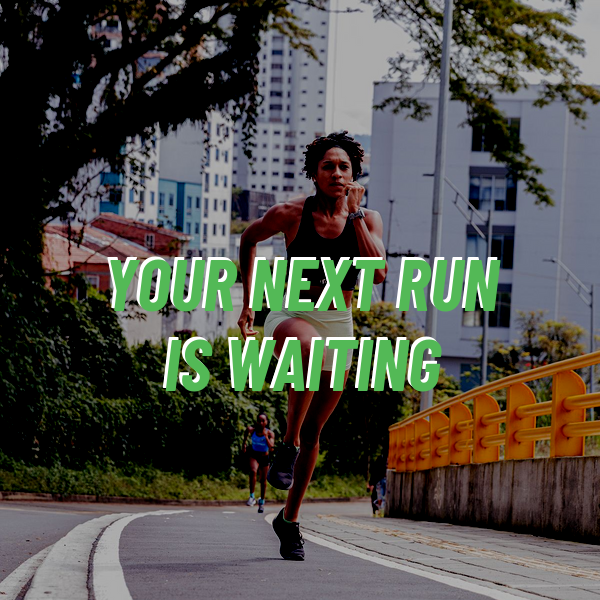
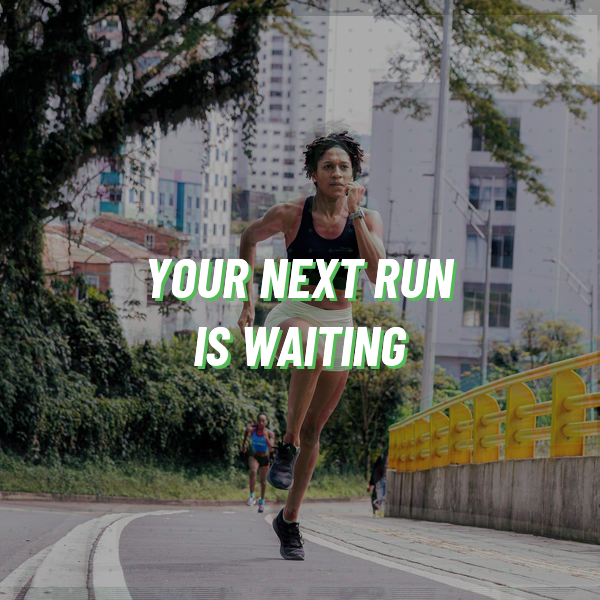
Email: lighter hero + PLAN/TRACK/RUN product sections

diff --git a/rundot/emails/reactivation.html b/rundot/emails/reactivation.html
@@ -67,7 +67,7 @@
         <table role="presentation" width="600" cellpadding="0" cellspacing="0" border="0" class="email-container" style="width:600px; max-width:600px;">
           <tr>
             <td style="padding:0;">
-              <img src="https://bradleyparnell.github.io/predictive-fitness/rundot/assets/email-hero-runner.png" width="600" alt="YOUR NEXT RUN IS WAITING" style="display:block; width:100%; max-width:600px; height:auto;">
+              <img src="https://bradleyparnell.github.io/predictive-fitness/rundot/assets/email-hero-runner.png" width="600" alt="Your next run is waiting" style="display:block; width:100%; max-width:600px; height:auto;">
             </td>
           </tr>
         </table>
@@ -85,62 +85,38 @@
           </tr>
         </table>
 
-        <!-- 4. Why Runners Trust RunDot -->
-        <table role="presentation" width="600" cellpadding="0" cellspacing="0" border="0" class="email-container" style="width:600px; max-width:600px; background-color:#f5f5f5;">
+        <!-- 4. PLAN Section -->
+        <table role="presentation" width="600" cellpadding="0" cellspacing="0" border="0" class="email-container" style="width:600px; max-width:600px; background-color:#111111;">
           <tr>
-            <td class="fluid-padding" style="padding: 36px 40px;">
-              <p style="margin:0 0 24px 0; text-align:center; font-family:Arial, Helvetica, sans-serif; font-size:22px; line-height:30px; color:#111111; font-weight:bold;">Why runners choose RunDot&trade;</p>
+            <td class="fluid-padding" style="padding: 40px 40px;">
+              <p style="margin:0 0 12px 0;">
+                <span style="color:#53b956; font-size:16px;">&#9679;</span>
+                <span style="font-family:Arial, Helvetica, sans-serif; font-size:13px; font-weight:bold; letter-spacing:3px; text-transform:uppercase; color:#53b956;">PLAN</span>
+              </p>
+              <h3 style="margin:0 0 12px 0; font-family:Arial, Helvetica, sans-serif; font-size:22px; line-height:30px; color:#ffffff; font-weight:bold;">Training built around your life.</h3>
+              <p style="margin:0 0 20px 0; font-family:Arial, Helvetica, sans-serif; font-size:15px; line-height:25px; color:#cccccc;">
+                Your schedule. Your goals. Your race day. Every run is predicted specifically for you - from 5K to Ultra.
+              </p>
 
               <table role="presentation" width="100%" cellpadding="0" cellspacing="0" border="0">
                 <tr>
-                  <td align="center" style="padding: 0 0 24px 0;">
-                    <table role="presentation" cellpadding="0" cellspacing="0" border="0">
-                      <tr>
-                        <td align="center" style="padding-bottom:12px;">
-                          <img src="https://bradleyparnell.github.io/predictive-fitness/rundot/assets/email-icon-personalized.png" width="48" alt="Personalized training" style="display:block; width:48px; height:48px;">
-                        </td>
-                      </tr>
-                      <tr>
-                        <td align="center" style="font-family:Arial, Helvetica, sans-serif; font-size:15px; line-height:24px; color:#333333; text-align:center;">
-                          <span style="font-weight:bold; color:#111111;">Truly personalized training.</span><br>
-                          Every workout is predicted for your body, your goals, and your schedule - built on 20+ years of real athlete data. Not a recycled plan. Not a template.
-                        </td>
-                      </tr>
-                    </table>
-                  </td>
+                  <td width="24" valign="top" style="padding-top:8px; color:#53b956; font-size:8px;">&#9679;</td>
+                  <td style="font-family:Arial, Helvetica, sans-serif; font-size:15px; line-height:24px; color:#cccccc; padding-bottom:12px;">Personalized to your ability, your schedule, and your goals</td>
                 </tr>
                 <tr>
-                  <td align="center" style="padding: 0 0 24px 0;">
-                    <table role="presentation" cellpadding="0" cellspacing="0" border="0">
-                      <tr>
-                        <td align="center" style="padding-bottom:12px;">
-                          <img src="https://bradleyparnell.github.io/predictive-fitness/rundot/assets/email-icon-conditions.png" width="48" alt="Real conditions" style="display:block; width:48px; height:48px;">
-                        </td>
-                      </tr>
-                      <tr>
-                        <td align="center" style="font-family:Arial, Helvetica, sans-serif; font-size:15px; line-height:24px; color:#333333; text-align:center;">
-                          <span style="font-weight:bold; color:#111111;">Adapts to real conditions.</span><br>
-                          Your paces adjust for temperature, humidity, and elevation automatically. Because a run in Phoenix and a run in Portland aren't the same run.
-                        </td>
-                      </tr>
-                    </table>
-                  </td>
+                  <td width="24" valign="top" style="padding-top:8px; color:#53b956; font-size:8px;">&#9679;</td>
+                  <td style="font-family:Arial, Helvetica, sans-serif; font-size:15px; line-height:24px; color:#cccccc; padding-bottom:12px;">5K to Ultra - every distance, every level</td>
                 </tr>
                 <tr>
-                  <td align="center" style="padding: 0 0 24px 0;">
-                    <table role="presentation" cellpadding="0" cellspacing="0" border="0">
-                      <tr>
-                        <td align="center" style="padding-bottom:12px;">
-                          <img src="https://bradleyparnell.github.io/predictive-fitness/rundot/assets/email-icon-watch.png" width="48" alt="Watch or phone" style="display:block; width:48px; height:48px;">
-                        </td>
-                      </tr>
-                      <tr>
-                        <td align="center" style="font-family:Arial, Helvetica, sans-serif; font-size:15px; line-height:24px; color:#333333; text-align:center;">
-                          <span style="font-weight:bold; color:#111111;">5K to Ultra, watch or phone.</span><br>
-                          Training plans from 5K to Ultra. Connects to your favorite running watch - or just grab your phone and go.
-                        </td>
-                      </tr>
-                    </table>
+                  <td width="24" valign="top" style="padding-top:8px; color:#53b956; font-size:8px;">&#9679;</td>
+                  <td style="font-family:Arial, Helvetica, sans-serif; font-size:15px; line-height:24px; color:#cccccc; padding-bottom:24px;">Adapts as you improve, automatically</td>
+                </tr>
+              </table>
+
+              <table role="presentation" width="100%" cellpadding="0" cellspacing="0" border="0">
+                <tr>
+                  <td align="center">
+                    <img src="https://bradleyparnell.github.io/predictive-fitness/rundot/assets/app-training-calendar-monthly.png" width="280" alt="Training calendar" style="display:block; width:280px; max-width:280px; height:auto; border-radius:12px;">
                   </td>
                 </tr>
               </table>
@@ -148,16 +124,81 @@
           </tr>
         </table>
 
-        <!-- 5. Runner Photo Strip with "TRUST THE RUN." -->
-        <table role="presentation" width="600" cellpadding="0" cellspacing="0" border="0" class="email-container" style="width:600px; max-width:600px;">
+        <!-- 5. TRACK Section -->
+        <table role="presentation" width="600" cellpadding="0" cellspacing="0" border="0" class="email-container" style="width:600px; max-width:600px; background-color:#151515;">
           <tr>
-            <td style="padding:0;">
-              <img src="https://bradleyparnell.github.io/predictive-fitness/rundot/assets/email-closing-runner.png" width="600" alt="Trust the run." style="display:block; width:100%; max-width:600px; height:auto;">
+            <td class="fluid-padding" style="padding: 40px 40px;">
+              <p style="margin:0 0 12px 0;">
+                <span style="color:#53b956; font-size:16px;">&#9679;</span>
+                <span style="font-family:Arial, Helvetica, sans-serif; font-size:13px; font-weight:bold; letter-spacing:3px; text-transform:uppercase; color:#53b956;">TRACK</span>
+              </p>
+              <h3 style="margin:0 0 12px 0; font-family:Arial, Helvetica, sans-serif; font-size:22px; line-height:30px; color:#ffffff; font-weight:bold;">See yourself improving.</h3>
+              <p style="margin:0 0 20px 0; font-family:Arial, Helvetica, sans-serif; font-size:15px; line-height:25px; color:#cccccc;">
+                Some weeks you can't tell you're getting faster. Your data can - normalized across every condition you train in.
+              </p>
+
+              <table role="presentation" width="100%" cellpadding="0" cellspacing="0" border="0">
+                <tr>
+                  <td width="24" valign="top" style="padding-top:8px; color:#53b956; font-size:8px;">&#9679;</td>
+                  <td style="font-family:Arial, Helvetica, sans-serif; font-size:15px; line-height:24px; color:#cccccc; padding-bottom:12px;">Performance benchmarked across temperature, humidity, and elevation</td>
+                </tr>
+                <tr>
+                  <td width="24" valign="top" style="padding-top:8px; color:#53b956; font-size:8px;">&#9679;</td>
+                  <td style="font-family:Arial, Helvetica, sans-serif; font-size:15px; line-height:24px; color:#cccccc; padding-bottom:12px;">See real progress, not just good-weather PRs</td>
+                </tr>
+                <tr>
+                  <td width="24" valign="top" style="padding-top:8px; color:#53b956; font-size:8px;">&#9679;</td>
+                  <td style="font-family:Arial, Helvetica, sans-serif; font-size:15px; line-height:24px; color:#cccccc; padding-bottom:24px;">Know when you're peaking and when to pull back</td>
+                </tr>
+              </table>
+
+              <table role="presentation" width="100%" cellpadding="0" cellspacing="0" border="0">
+                <tr>
+                  <td align="center">
+                    <img src="https://bradleyparnell.github.io/predictive-fitness/rundot/assets/app-home-incomplete.png" width="280" alt="Progress dashboard" style="display:block; width:280px; max-width:280px; height:auto; border-radius:12px;">
+                  </td>
+                </tr>
+              </table>
             </td>
           </tr>
         </table>
 
-        <!-- 6. Testimonial -->
+        <!-- 6. RUN Section -->
+        <table role="presentation" width="600" cellpadding="0" cellspacing="0" border="0" class="email-container" style="width:600px; max-width:600px; background-color:#111111;">
+          <tr>
+            <td class="fluid-padding" style="padding: 40px 40px;">
+              <p style="margin:0 0 12px 0;">
+                <span style="color:#53b956; font-size:16px;">&#9679;</span>
+                <span style="font-family:Arial, Helvetica, sans-serif; font-size:13px; font-weight:bold; letter-spacing:3px; text-transform:uppercase; color:#53b956;">RUN</span>
+              </p>
+              <h3 style="margin:0 0 12px 0; font-family:Arial, Helvetica, sans-serif; font-size:22px; line-height:30px; color:#ffffff; font-weight:bold;">Just follow your personalized plan.</h3>
+              <p style="margin:0 0 20px 0; font-family:Arial, Helvetica, sans-serif; font-size:15px; line-height:25px; color:#cccccc;">
+                Your plan tells you exactly what to do. Just run the pace on your wrist.
+              </p>
+
+              <table role="presentation" width="100%" cellpadding="0" cellspacing="0" border="0">
+                <tr>
+                  <td width="24" valign="top" style="padding-top:8px; color:#53b956; font-size:8px;">&#9679;</td>
+                  <td style="font-family:Arial, Helvetica, sans-serif; font-size:15px; line-height:24px; color:#cccccc; padding-bottom:12px;">Structured workouts sent directly to your running watch</td>
+                </tr>
+                <tr>
+                  <td width="24" valign="top" style="padding-top:8px; color:#53b956; font-size:8px;">&#9679;</td>
+                  <td style="font-family:Arial, Helvetica, sans-serif; font-size:15px; line-height:24px; color:#cccccc; padding-bottom:12px;">Pace, distance, and interval targets built in</td>
+                </tr>
+                <tr>
+                  <td width="24" valign="top" style="padding-top:8px; color:#53b956; font-size:8px;">&#9679;</td>
+                  <td style="font-family:Arial, Helvetica, sans-serif; font-size:15px; line-height:24px; color:#cccccc; padding-bottom:12px;">Connects to your favorite running watch</td>
+                </tr>
+                <tr>
+                  <td width="24" valign="top" style="padding-top:8px; color:#53b956; font-size:8px;">&#9679;</td>
+                  <td style="font-family:Arial, Helvetica, sans-serif; font-size:15px; line-height:24px; color:#cccccc; padding-bottom:0;">Don't have one yet? Just grab your phone and go</td>
+                </tr>
+              </table>
+            </td>
+          </tr>
+        </table>
+
+        <!-- 7. Testimonial -->
         <table role="presentation" width="600" cellpadding="0" cellspacing="0" border="0" class="email-container" style="width:600px; max-width:600px; background-color:#ffffff;">
           <tr>
             <td align="center" class="fluid-padding" style="padding: 40px 40px;">
@@ -172,7 +213,16 @@
           </tr>
         </table>
 
-        <!-- 7. CTA Section -->
+        <!-- 8. Runner Photo Strip with "TRUST THE RUN." -->
+        <table role="presentation" width="600" cellpadding="0" cellspacing="0" border="0" class="email-container" style="width:600px; max-width:600px;">
+          <tr>
+            <td style="padding:0;">
+              <img src="https://bradleyparnell.github.io/predictive-fitness/rundot/assets/email-closing-runner.png" width="600" alt="Trust the run." style="display:block; width:100%; max-width:600px; height:auto;">
+            </td>
+          </tr>
+        </table>
+
+        <!-- 9. CTA Section -->
         <table role="presentation" width="600" cellpadding="0" cellspacing="0" border="0" class="email-container" style="width:600px; max-width:600px; background-color:#0a0a0a;">
           <tr>
             <td align="center" class="fluid-padding" style="padding: 48px 40px;">
@@ -190,7 +240,7 @@
           </tr>
         </table>
 
-        <!-- 8. Footer -->
+        <!-- 10. Footer -->
         <table role="presentation" width="600" cellpadding="0" cellspacing="0" border="0" class="email-container" style="width:600px; max-width:600px; background-color:#111111;">
           <tr>
             <td align="center" class="fluid-padding" style="padding: 32px 40px;">
